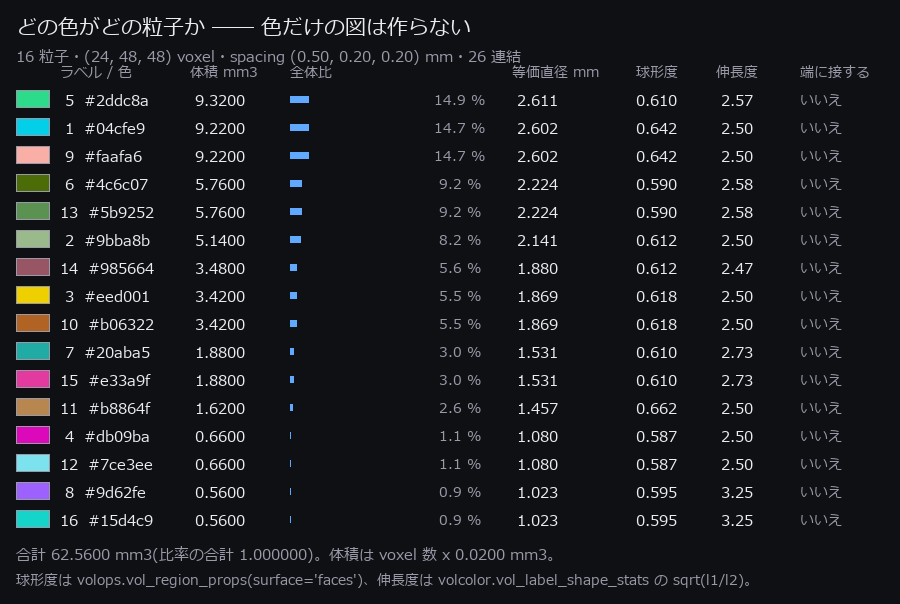
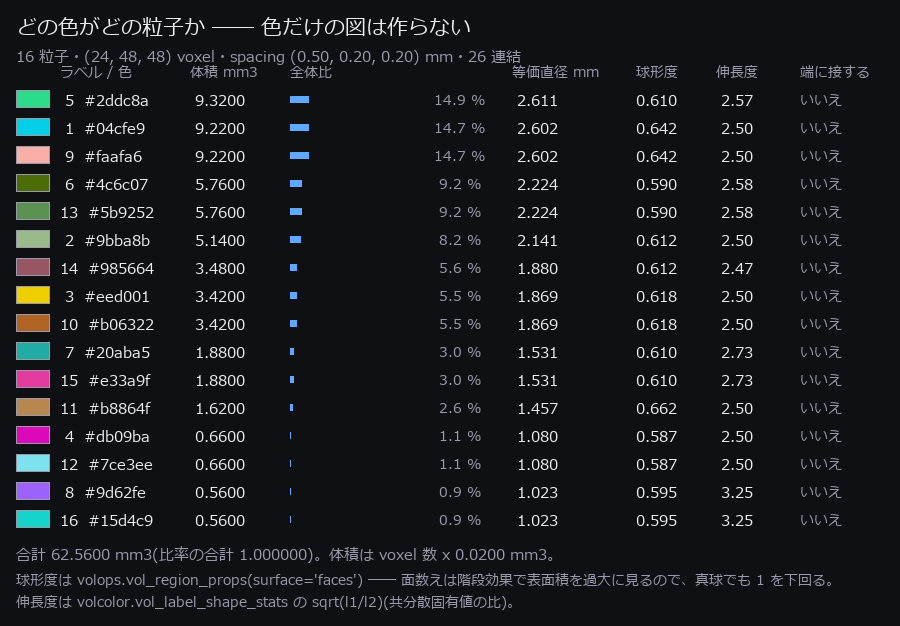
auto: gen_wing3d_gallery.py 編集前 (2026-09-02 02:50)

Changed region(s): [[0.0, 0.0298, 0.9333, 0.9834], [0.6844, 0.0894, 0.84, 0.8642], [0.8711, 0.0894, 0.9644, 0.8642]]

diff --git a/tools/gen_wing1d_gallery.py b/tools/gen_wing1d_gallery.py
@@ -1007,7 +1007,9 @@ def ex_order_tracking(log):
         fig.stamp(ink, C_TRUE)
         fig.text(80, 392, "order spectrum [shaft order] - the shaft components stay, "
                           "the resonance moves", C_TEXT, 12, True)
-        fig.text(min(float(axo.X(r["o400"])) + 6, axo.x1 - 216), 414,
+        # 線が右寄りのときはラベルを左側へ回す(線に文字が重なるのを避ける)
+        xo = float(axo.X(r["o400"]))
+        fig.text(xo + 8 if xo < axo.x1 - 230 else xo - 226, 414,
                  f"400 Hz = order {r['o400']:.2f} (moves)", C_TRUE, 11, True)
         fig.text(axo.X(3.5) + 4, 436, "order 3.5 (fixed)", C_B, 11, True)
         fig.text(axo.x0 + 6, axo.y0 + 4, "amp", C_DIM, 11)

diff --git a/docs/articles/exhibits/wingvox.en.md b/docs/articles/exhibits/wingvox.en.md
@@ -21,10 +21,10 @@ as **a thumbnail linking to the full-size PNG**.
 
 *↑ **Flipping through colour-coded voxel slices** ―― 16 particles labelled with 26-connectivity, coloured **as a volume** and only then cut into 24 slices. Each particle keeps one colour from first slice to last (measured: all 16 components have exactly one colour). At a spacing of (0.50, 0.20, 0.20) mm they total 62.560 mm3. Ops used: `vol_label`, `vol_colorize_labels`, `vol_label_slice_rgb`, `vol_label_shape_stats`, `vol_label_palette`.*
 
-- GIF: `docs/articles/assets/media/wingvox_slice_flow.gif` (24 frames, 432x616 px, 0.32 MB)
+- GIF: `docs/articles/assets/media/wingvox_slice_flow.gif` (24 frames, 432x616 px, 0.33 MB)
 - Thumbnail: `docs/articles/assets/thumbs/wingvox_slice_flow_thumb.jpg`
 - Bundling: フリップブック GIF(断面が進む・寸法が揃っている)
[2 lines of base64/hex data omitted]
 
 <details><summary>The measured values burned into this figure</summary>
 
@@ -373,10 +373,10 @@ as **a thumbnail linking to the full-size PNG**.
 
 *↑ **A turntable of colour-coded meshes** ―― Marching cubes runs on each component's padded bounding box, giving 16 meshes and 7088 triangles for the 16 components. Vertices are in physical coordinates (spacing (0.50, 0.20, 0.20) mm) and the frames are composited through ``render3d.render_mesh``'s z-buffer. **The colours are the same palette rows as the slice views**, so the same particle can be followed between the cut and the rotation. Ops used: `vol_label`, `vol_labels_to_meshes`, `look_at`, `intrinsics_from_fov`, `render_mesh`.*
 
-- GIF: `docs/articles/assets/media/wingvox_mesh_turntable.gif` (24 frames, 380x538 px, 0.41 MB)
+- GIF: `docs/articles/assets/media/wingvox_mesh_turntable.gif` (24 frames, 380x538 px, 0.45 MB)
 - Thumbnail: `docs/articles/assets/thumbs/wingvox_mesh_turntable_thumb.jpg`
 - Bundling: フリップブック GIF(方位が進む)
[2 lines of base64/hex data omitted]
 
 <details><summary>The measured values burned into this figure</summary>
 
@@ -404,10 +404,10 @@ as **a thumbnail linking to the full-size PNG**.
 
 *↑ **A measurement table with its legend — which colour is which particle** ―― A colour-coded figure without a legend is merely decorative. This table lists all 16 particles: swatch, volume in mm3, share of the total, equivalent diameter, sphericity, elongation and whether the particle touches the field of view. Total 62.5600 mm3, shares summing to 1.000000, one voxel = 0.020000 mm3. The largest is #2ddc8a at 9.3200 mm3, the smallest #15d4c9 at 0.5600 mm3. Ops used: `vol_label`, `vol_region_props`, `vol_label_shape_stats`, `vol_label_legend`, `vol_label_palette`.*
 
-- PNG (full size): `docs/articles/assets/wingvox_legend.png` (900x604 px, 95 kB)
-- Thumbnail (shown in the article): `docs/articles/assets/wingvox_legend_thumb.jpg` (74 kB)
+- PNG (full size): `docs/articles/assets/wingvox_legend.png` (900x626 px, 104 kB)
+- Thumbnail (shown in the article): `docs/articles/assets/wingvox_legend_thumb.jpg` (79 kB)
 - Bundling: 原寸 1 枚(表の数値が主役 ―― 縮めると読めない)
[2 lines of base64/hex data omitted]
 
 <details><summary>The measured values burned into this figure</summary>
 

diff --git a/docs/articles/exhibits/wingvox.ja.md b/docs/articles/exhibits/wingvox.ja.md
@@ -21,10 +21,10 @@
 
 *↑ **色分けしたボクセルの断面送り** ―― 16 粒子を 26 連結でラベリングし、**ボリュームのまま**色を付けてから 24 枚の断面へ切り出した。1 つの粒子は最初から最後まで 1 色 (実測: 全 16 成分の色数が 1)。spacing (0.50, 0.20, 0.20) mm で 総体積 62.560 mm3。 使用 op: `vol_label`, `vol_colorize_labels`, `vol_label_slice_rgb`, `vol_label_shape_stats`, `vol_label_palette`。*
 
-- GIF: `docs/articles/assets/media/wingvox_slice_flow.gif` (24 コマ, 432x616 px, 0.32 MB)
+- GIF: `docs/articles/assets/media/wingvox_slice_flow.gif` (24 コマ, 432x616 px, 0.33 MB)
 - サムネ: `docs/articles/assets/thumbs/wingvox_slice_flow_thumb.jpg`
 - 束ね方: フリップブック GIF(断面が進む・寸法が揃っている)
[2 lines of base64/hex data omitted]
 
 <details><summary>この図に焼いた実測値</summary>
 
@@ -373,10 +373,10 @@
 
 *↑ **色付きメッシュのターンテーブル** ―― 16 個の成分それぞれの bbox 部分体に marching cubes をかけ、三角形 7088 枚のメッシュ 16 個にした。頂点は spacing (0.50, 0.20, 0.20) mm を掛けた物理座標で、``render3d.render_mesh`` の z バッファで合成している。**色は断面図とまったく同じパレットの同じ行**なので、切った絵と回した絵で同じ粒子を目で追える。 使用 op: `vol_label`, `vol_labels_to_meshes`, `look_at`, `intrinsics_from_fov`, `render_mesh`。*
 
-- GIF: `docs/articles/assets/media/wingvox_mesh_turntable.gif` (24 コマ, 380x538 px, 0.41 MB)
+- GIF: `docs/articles/assets/media/wingvox_mesh_turntable.gif` (24 コマ, 380x538 px, 0.45 MB)
 - サムネ: `docs/articles/assets/thumbs/wingvox_mesh_turntable_thumb.jpg`
 - 束ね方: フリップブック GIF(方位が進む)
[2 lines of base64/hex data omitted]
 
 <details><summary>この図に焼いた実測値</summary>
 
@@ -404,10 +404,10 @@
 
 *↑ **凡例つきの計測表 ―― どの色がどの粒子か** ―― 色分けした図は、凡例が無ければ「きれいなだけ」で終わる。16 粒子の色見本・体積 mm3・全体比・等価直径・球形度・伸長度・視野端への接触を並べた。総体積 62.5600 mm3、比率の合計 1.000000。1 ボクセル = 0.020000 mm3。最大は #2ddc8a の 9.3200 mm3、最小は #15d4c9 の 0.5600 mm3。 使用 op: `vol_label`, `vol_region_props`, `vol_label_shape_stats`, `vol_label_legend`, `vol_label_palette`。*
 
-- PNG (原寸 1 枚): `docs/articles/assets/wingvox_legend.png` (900x604 px, 95 kB)
-- サムネ(記事はこちらを表示): `docs/articles/assets/wingvox_legend_thumb.jpg` (74 kB)
+- PNG (原寸 1 枚): `docs/articles/assets/wingvox_legend.png` (900x626 px, 104 kB)
+- サムネ(記事はこちらを表示): `docs/articles/assets/wingvox_legend_thumb.jpg` (79 kB)
 - 束ね方: 原寸 1 枚(表の数値が主役 ―― 縮めると読めない)
[2 lines of base64/hex data omitted]
 
 <details><summary>この図に焼いた実測値</summary>
 
